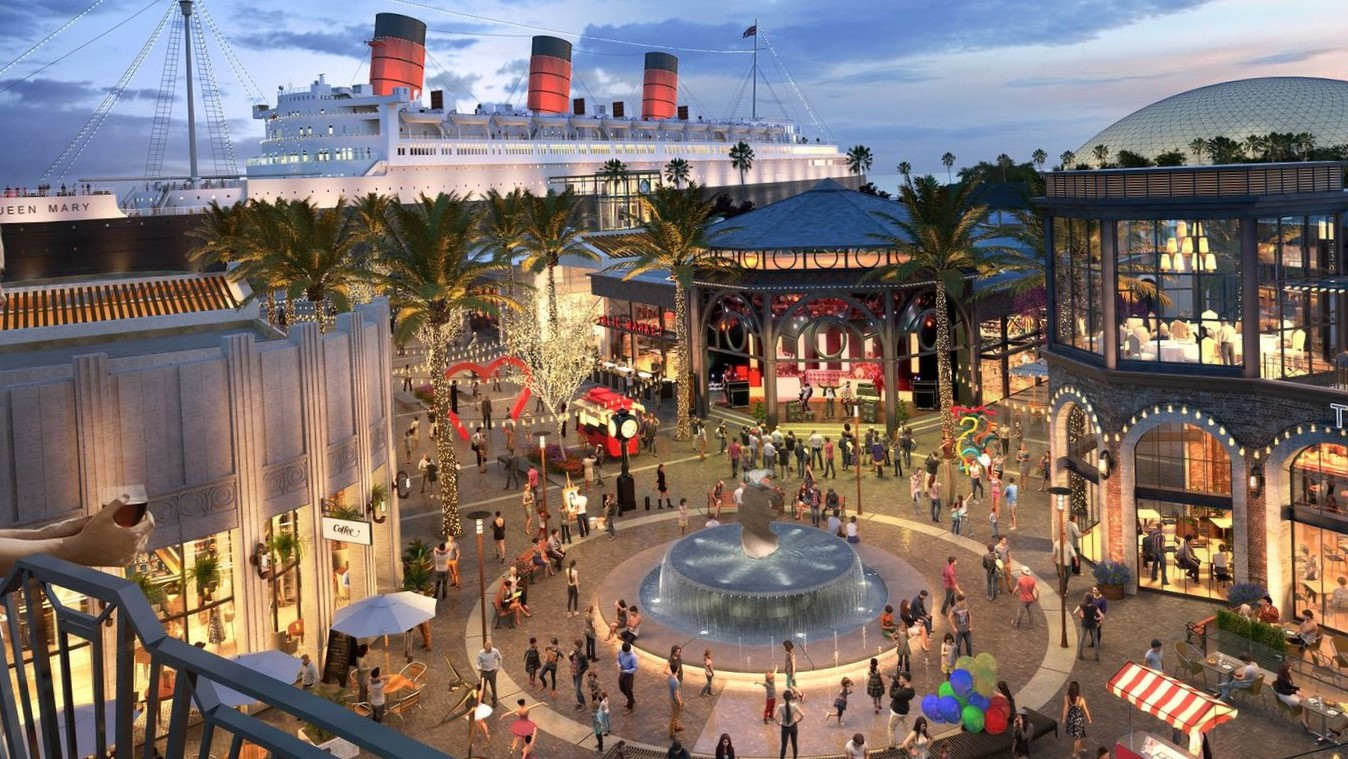
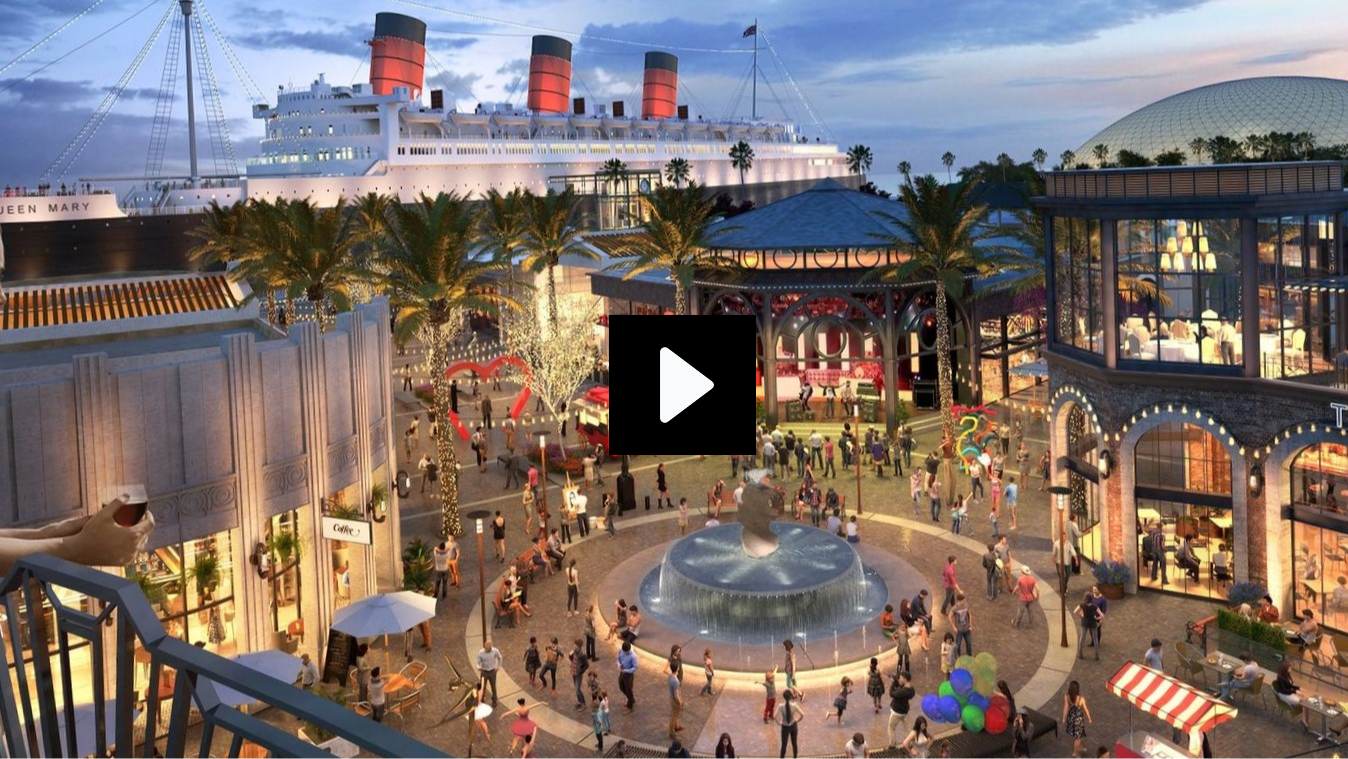
1

diff --git a/index.html b/index.html
@@ -103,7 +103,7 @@
     <section class="mySlides fade">
       <div class="numbertext">2 / 3</div>
       <a href="localnews.html">
-      <img src="Images/lbdowntown1.png" alt="Downtown Long Beach Shopping Center" style="width:100%">
+      <img src="Images/lbdowntown2.png" alt="Downtown Long Beach Shopping Center" style="width:100%">
       </a>
       <div class="text">Downtown LB Gets Facelift</div>
     </section>
@@ -148,19 +148,19 @@ showSlides();
     </section>
 
     <section class="column middle">
-    <h2>Lumber Sales Increase 200%</h2>
-    <img src="Images/lumber1.png" alt="Cut Lumber in Forest" style="width:100%">
+      <h2>2020 World Series Highlights</h2>
+      <video class="player1" style="width:100%" controls>
+        <source src="Video/baseball1.mov" alt="World Series Baseball 2020" type="video/mp4" >
+        Your browser does not support the video tag.
+      </video>
     <p>Lorem ipsum dolor sit amet, consectetur adipiscing elit. Maecenas sit amet pretium urna. Vivamus venenatis velit nec neque ultricies, eget elementum magna tristique. Quisque vehicula, risus eget aliquam placerat, purus leo tincidunt eros, eget luctus quam orci in velit. Praesent scelerisque tortor sed accumsan convallis.
     </p>
     <p>Lorem ipsum dolor sit amet, consectetur adipiscing elit. Maecenas sit amet pretium urna. Vivamus venenatis velit nec neque ultricies, eget elementum magna tristique. Quisque vehicula, risus eget aliquam placerat, purus leo tincidunt eros, eget luctus quam orci in velit. Praesent scelerisque tortor sed accumsan convallis.</p>
     </section>
 
     <section class="column right">
-    <h2>World Series Highlights</h2>
-    <video class="player1" style="width:100%" controls>
-      <source src="Video/baseball1.mov" alt="World Series Baseball 2020" type="video/mp4" >
-      Your browser does not support the video tag.
-    </video>
+    <h2>LB Crime Falls</h2>
+    <img src="Images/crime1.png" alt="Crime Yellow Tape" style="width:100%">
     <p>Lorem ipsum dolor sit amet, consectetur adipiscing elit. Maecenas sit amet pretium urna. Vivamus venenatis velit nec neque ultricies, eget elementum magna tristique. Quisque vehicula, risus eget aliquam placerat, purus leo tincidunt eros, eget luctus quam orci in velit. Praesent scelerisque tortor sed accumsan convallis.
     </p>
     <p>Lorem ipsum dolor sit amet, consectetur adipiscing elit. </p>

diff --git a/localnews.html b/localnews.html
@@ -103,7 +103,7 @@
     <section class="column half1">
     <h2>Downtown LB Renovation Completed!</h2>
       <a href="video/downtownlongbeach1.mp4">
-      <img src="Images/lbdowntown1.png" alt="Downtown Long Beach Shopping Center" style="width:100%">
+      <img class="vidLB1" src="Images/lbdowntown1.png" alt="Downtown Long Beach Shopping Center" style="width:100%">
       </a>
     
     <p>Lorem ipsum dolor sit amet, consectetur adipiscing elit. Maecenas sit amet pretium urna. Vivamus venenatis velit nec neque ultricies, eget elementum magna tristique. Quisque vehicula, risus eget aliquam placerat, purus leo tincidunt eros, eget luctus quam orci in velit. Praesent scelerisque tortor sed accumsan convallis.</p>

diff --git a/style.css b/style.css
@@ -351,6 +351,9 @@ nav a {
   transform: scale(1.5); 
 }
 
+.vidLB1:hover {
+  transform: scale(1.1); 
+}
 
 
 /*--------------Media Query---------------*/

diff --git a/report.html b/report.html
@@ -134,6 +134,7 @@ longbeachdowntown1.png
 
 
 lbhousing2.png 
+https://unsplash.com/photos/TX6dBiMwBV0
 
 
 travel2.png
